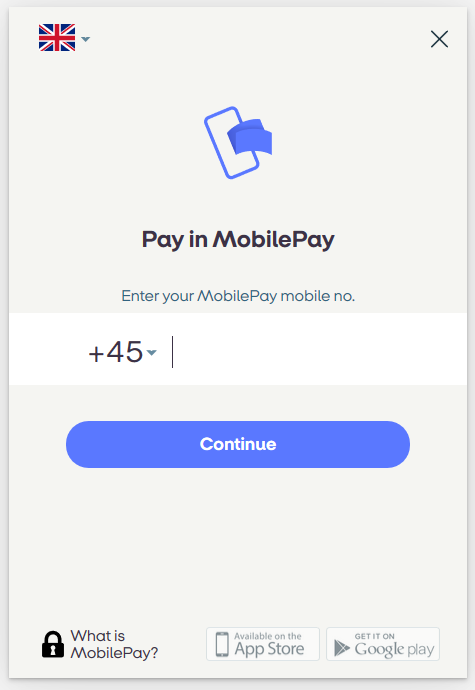
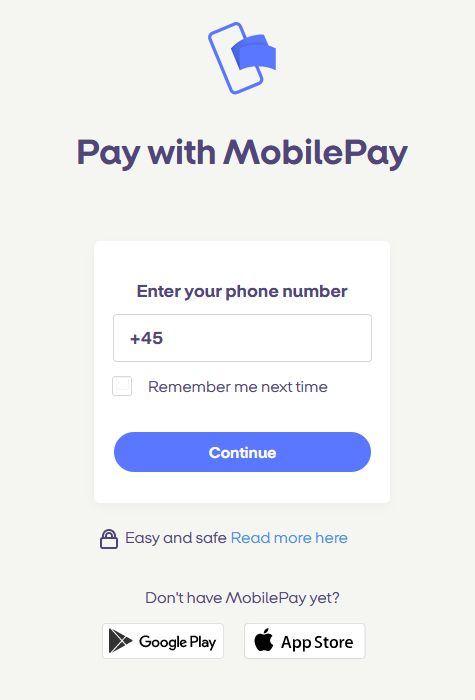
Added the MPO page's new look as well

diff --git a/payment-instruments/mobile-pay/redirect.md b/payment-instruments/mobile-pay/redirect.md
@@ -30,10 +30,10 @@ menu_order: 600
 ![screenshot of the Swedbank Pay landing page][swedbankpay-landing-page]{:height="425px" width="475px"}
 
 {:.text-center}
-![mobilepay enter number][mobilepay-screenshot-1]{:height="690px" width="475px"}
+![mobilepay enter number][mobilepay-screenshot-1]{:height="700px" width="475px"}
 
 {:.text-center}
-![mobilepay approve payment][mobilepay-screenshot-2]{:height="700px" width="475px"}
+![mobilepay approve payment][mobilepay-screenshot-2]{:height="600px" width="600px"}
 
 {% include alert.html type="success" icon="link" body="**Defining
 `callbackUrl`**: When implementing a scenario, it is strongly recommended to set

diff --git a/payment-instruments/mobile-pay/index.md b/payment-instruments/mobile-pay/index.md
@@ -25,7 +25,7 @@ This takes the payer to MobilePay's own payment page where the phone number is
 entered, and a push message is sent to the phone.
 
 {:.text-center}
-![screenshot of the MobilePay Online number input page][mobilepay-number-input]{:height="690px" width="475px"}
+![screenshot of the MobilePay Online number input page][mobilepay-number-input]{:height="700px" width="475px"}
 
 A countdown is shown in the browser and the payment request will appear in the
 app, waiting to be confirmed by the payer. If you are using the redirect
